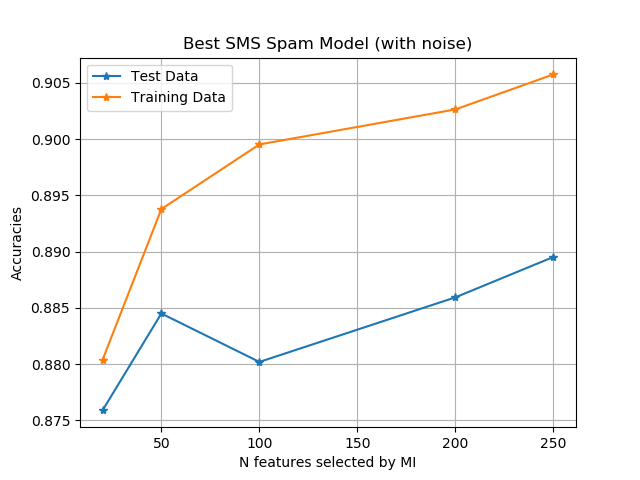
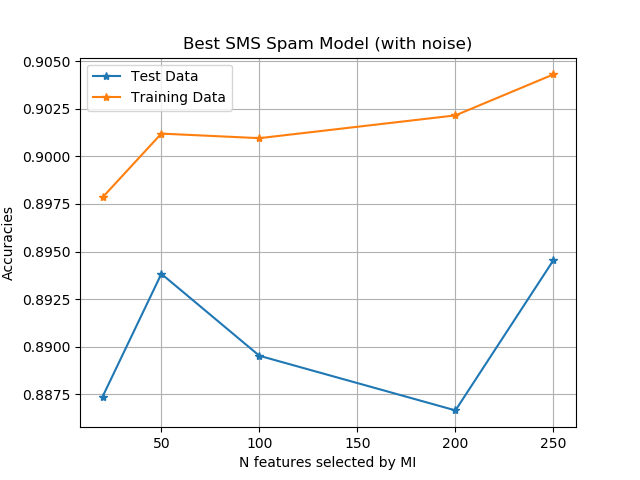
GENERATED: paramsweep png.

diff --git a/Assignment4/Code/assignments/bsm_parameter_sweeps.py b/Assignment4/Code/assignments/bsm_parameter_sweeps.py
@@ -10,7 +10,7 @@ config = {
     'iterations': 10000,  # logistic regression
     'min_to_stop': 100,  # decision tree and random forest
     'feature_restriction': 20,  # random forest
-    'use_bagging': True,  # random forest.
+    'bagging_w_replacement': True,  # random forest.
     'num_trees': 40,  # random forest
     'feature_restriction': 20,  # random forest
     'feature_selection_by_mi': 20,  # 0 means False, N > 0 means select top N words based on mi.
@@ -30,7 +30,7 @@ def parameter_sweeps_by_min_to_stop(min_to_stops=[1, 5, 10, 50, 100],
                                                              with_noise=with_noise)
         print("Loaded all data.")
         bsm = BestSpamModel(num_trees=config['num_trees'],
-                            use_bagging=config['use_bagging'],
+                            bagging_w_replacement=config['bagging_w_replacement'],
                             feature_restriction=config['feature_restriction'])
         bsm.fit(xTrain, yTrain, config['iterations'], min_to_stop)
         # on hold-out data
@@ -73,7 +73,7 @@ def parameter_sweeps_by_feature_restriction(feature_restrictions=[10, 50, 100, 1
                                                              with_noise=with_noise)
         print("Loaded all data.")
         bsm = BestSpamModel(num_trees=config['num_trees'],
-                            use_bagging=config['use_bagging'],
+                            bagging_w_replacement=config['bagging_w_replacement'],
                             feature_restriction=feature_restriction)
         bsm.fit(xTrain, yTrain, config['iterations'], config['min_to_stop'])
         # on hold-out data
@@ -105,8 +105,8 @@ def parameter_sweeps_by_feature_restriction(feature_restrictions=[10, 50, 100, 1
 
 
 def parameter_sweeps_by_mi(mi_words=[20, 50, 100, 200, 250],
-                                    config=config,
-                                    with_noise=True):
+                           config=config,
+                           with_noise=True):
 
     accuracies = []
     test_accuracies = []
@@ -115,7 +115,7 @@ def parameter_sweeps_by_mi(mi_words=[20, 50, 100, 200, 250],
                                                              with_noise=with_noise)
         print("Loaded all data.")
         bsm = BestSpamModel(num_trees=config['num_trees'],
-                            use_bagging=config['use_bagging'],
+                            bagging_w_replacement=config['bagging_w_replacement'],
                             feature_restriction=config['feature_restriction'])
         bsm.fit(xTrain, yTrain, config['iterations'], config['min_to_stop'])
         # on hold-out data
@@ -150,9 +150,9 @@ if __name__ == '__main__':
     config = {
         'iterations': 10000,  # logistic regression
         'min_to_stop': 2,  # decision tree and random forest
-        'feature_restriction': 100,  # random forest
-        'use_bagging': True,  # random forest.
-        'num_trees': 10,  # random forest
+        'feature_restriction': 20,  # random forest
+        'bagging_w_replacement': True,  # random forest.
+        'num_trees': 20,  # random forest
         'feature_restriction': 20,  # random forest
         'feature_selection_by_mi': 20,  # 0 means False, N > 0 means select top N words based on mi.
         'feature_selection_by_frequency': 10  # 0 means False, N > 0 means select top N words based on frequency.

diff --git a/Assignment4/Code/model/BestSpamModel.py b/Assignment4/Code/model/BestSpamModel.py
@@ -11,13 +11,13 @@ class BestSpamModel(object):
     def __init__(self,
                  threshold=0.5,          # logistic regression
                  num_trees=40,            # random forest
-                 use_bagging=False,      # random forest
+                 bagging_w_replacement=False,      # random forest
                  feature_restriction=0,  # random forest
                  seed=10000):            # random forest
         self.lg = lg.LogisticRegressionModel(threshold=threshold)
         self.dt = dt.DecisionTreeModel()
         self.rf = rf.RandomForestModel(numTrees=num_trees,
-                                       bagging_w_replacement=use_bagging,
+                                       bagging_w_replacement=bagging_w_replacement,
                                        feature_restriction=feature_restriction,
                                        seed=seed)
         self.lg_pred = []
